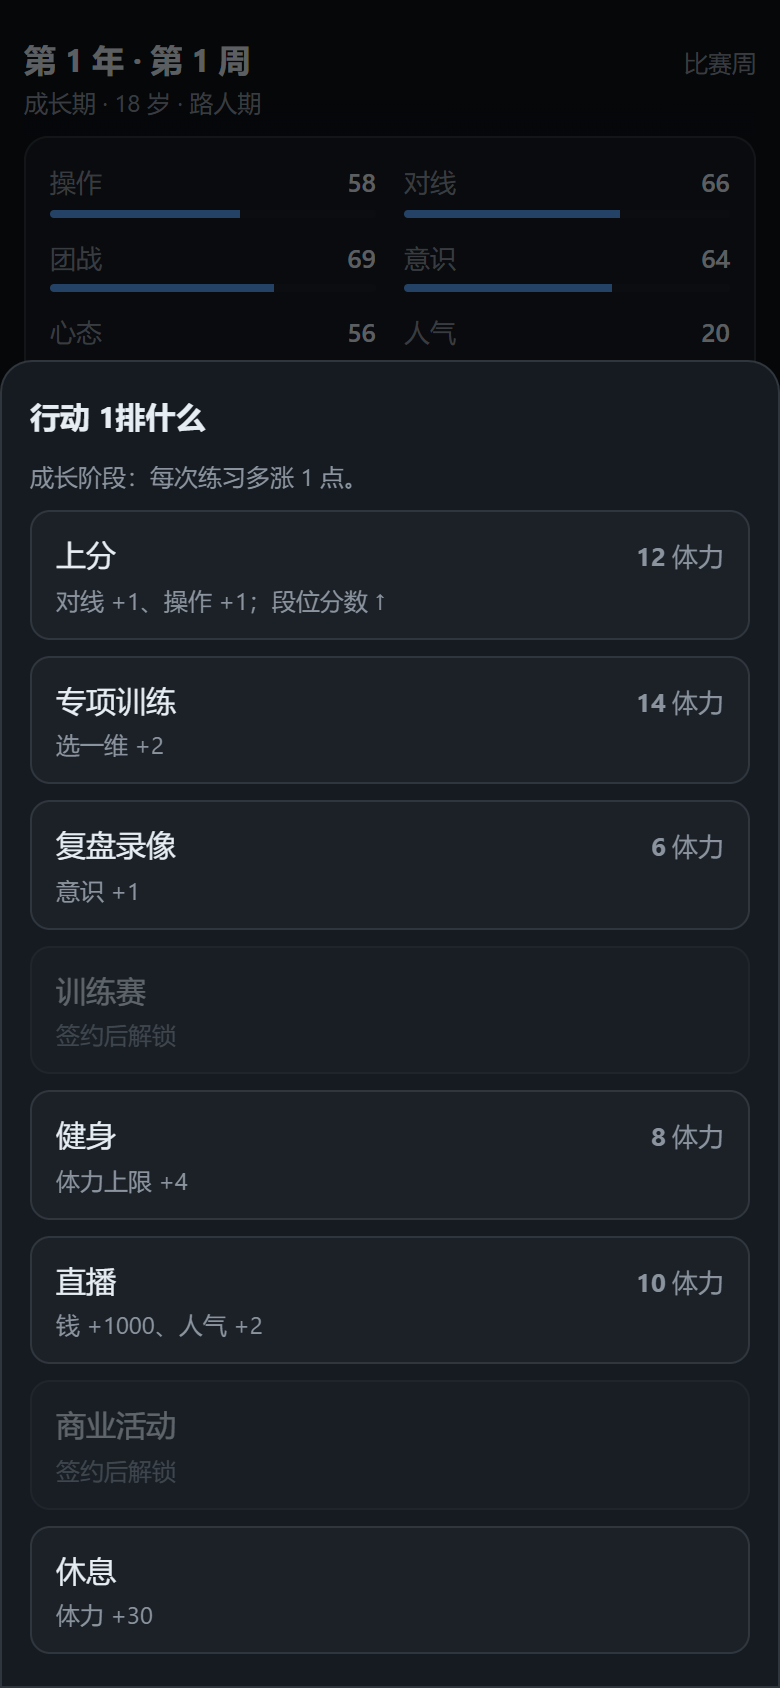
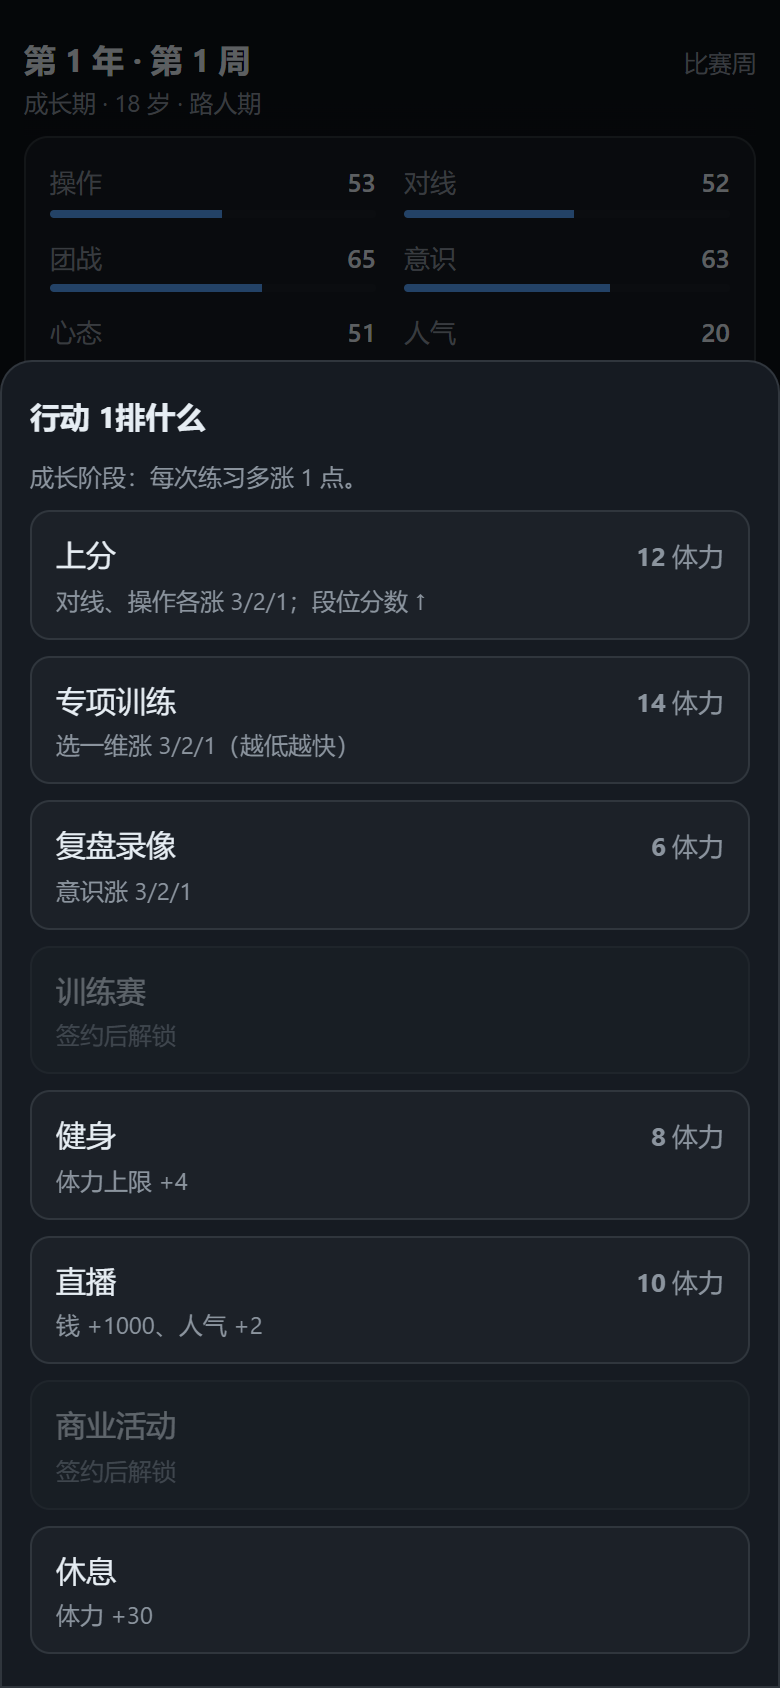
feat(balance): 训练改成按当前值分段收益 3/2/1（必成）

diff --git a/src/core/actions.ts b/src/core/actions.ts
@@ -1,6 +1,6 @@
 import { CONFIG } from '../config';
 import { ATTR_LABEL, type ActionId, type AttrKey, type GameState } from '../types';
-import { applyAttrDelta, gainPoints } from './growth';
+import { applyAttrDelta, gainPoints, trainGain } from './growth';
 import { createRng } from '../rng';
 import { FEEDBACK } from '../data/feedback';
 import { clamp } from './state';
@@ -15,10 +15,10 @@ export interface ActionInfo {
 }
 
 export const ACTION_INFO: Record<ActionId, ActionInfo> = {
-  rank: { label: '上分', hint: '对线 +1、操作 +1；段位分数 ↑', needsContract: false },
-  train: { label: '专项训练', hint: '选一维 +2', needsContract: false },
-  review: { label: '复盘录像', hint: '意识 +1', needsContract: false },
-  scrim: { label: '训练赛', hint: '团战 +1、意识 +1、信任 +2', needsContract: true },
+  rank: { label: '上分', hint: '对线、操作各涨 3/2/1；段位分数 ↑', needsContract: false },
+  train: { label: '专项训练', hint: '选一维涨 3/2/1（越低越快）', needsContract: false },
+  review: { label: '复盘录像', hint: '意识涨 3/2/1', needsContract: false },
+  scrim: { label: '训练赛', hint: '团战、意识各涨 3/2/1；信任 +2', needsContract: true },
   fitness: { label: '健身', hint: '体力上限 +4', needsContract: false },
   stream: { label: '直播', hint: '钱 +1000、人气 +2', needsContract: false },
   business: { label: '商业活动', hint: '钱 +2000、人气 +5', needsContract: true },
@@ -99,8 +99,8 @@ export function applyAction(
 
   switch (action) {
     case 'rank': {
-      gainPoints(state, 'laning', 1);
-      gainPoints(state, 'operation', 1);
+      gainPoints(state, 'laning', trainGain(state, 'laning'));
+      gainPoints(state, 'operation', trainGain(state, 'operation'));
       // 一周打包的排位：收益按当前档位递减，档位越高涨得越慢。
       const gained = weeklyGain(state.rankPoints);
       // 不封顶：封顶之后名次就成了死局，谁到 9999 都是并列。
@@ -114,17 +114,17 @@ export function applyAction(
     }
     case 'train': {
       const key = target ?? 'operation';
-      gainPoints(state, key, CONFIG.actions.train.gain);
+      gainPoints(state, key, trainGain(state, key));
       logs.push(say(state, 'train', `这一周只练${ATTR_LABEL[key]}。`));
       break;
     }
     case 'review':
-      gainPoints(state, 'awareness', CONFIG.actions.review.gain.awareness);
+      gainPoints(state, 'awareness', trainGain(state, 'awareness'));
       logs.push(say(state, 'review', '你逐帧看了自己的团战，越看越沉默。'));
       break;
     case 'scrim':
-      gainPoints(state, 'teamfight', CONFIG.actions.scrim.gain.teamfight);
-      gainPoints(state, 'awareness', CONFIG.actions.scrim.gain.awareness);
+      gainPoints(state, 'teamfight', trainGain(state, 'teamfight'));
+      gainPoints(state, 'awareness', trainGain(state, 'awareness'));
       state.coachTrust = clamp(state.coachTrust + CONFIG.actions.scrim.coachTrust, 0, 100);
       logs.push(say(state, 'scrim', '训练赛打完，教练在本子上记了两笔。'));
       break;

diff --git a/scripts/probe-bands.ts b/scripts/probe-bands.ts
@@ -1,0 +1,24 @@
+import { newGame } from '../src/core/state';
+import { trainGain, gainPoints } from '../src/core/growth';
+
+const s = newGame(7);
+for (const phase of [1, 3, 7]) {
+  s.year = phase;
+  s.attrs.operation = 55;
+  const rows: string[] = [];
+  for (const v of [55, 59, 60, 79, 80, 99]) {
+    s.attrs.operation = v;
+    rows.push(`${v}→+${trainGain(s, 'operation')}`);
+  }
+  console.log(`第 ${phase} 年（${phase === 1 ? '成长' : phase === 3 ? '巅峰' : '衰退'}）`, rows.join('  '));
+}
+
+// 从 55 练到 100 需要几格（巅峰期，无成长加成）
+s.year = 3;
+s.attrs.operation = 55;
+let slots = 0;
+while (s.attrs.operation < 100 && slots < 500) {
+  gainPoints(s, 'operation', trainGain(s, 'operation'));
+  slots += 1;
+}
+console.log('巅峰期 55→100 需要', slots, '格');

diff --git a/src/core/growth.ts b/src/core/growth.ts
@@ -9,7 +9,15 @@ export interface GainResult {
   capped: number;
 }
 
-/** 练一次涨几点：成长阶段额外 +1，练到 100 就停。 */
+/** 训练一次，这一维该涨几点：分段收益 + 成长阶段的额外 1 点。 */
+export function trainGain(state: GameState, key: AttrKey): number {
+  const value = state.attrs[key];
+  const band = CONFIG.attrs.trainBands.find((b) => value < b.under) ?? { gain: 1 };
+  const bonus = phaseOfYear(state.year) === 'growth' ? CONFIG.attrs.growthBonus : 0;
+  return band.gain + bonus;
+}
+
+/** 直接加整数点：练到 100 就停。 */
 export function gainPoints(state: GameState, key: AttrKey, amount: number): GainResult {
   const cap = CONFIG.attrs.cap;
   let points = 0;

diff --git a/src/config.ts b/src/config.ts
@@ -43,6 +43,15 @@ export const CONFIG = {
 
   attrs: {
     cap: 100,
+    /**
+     * 练一次涨几点：按「这一维现在多少」分段，越练越慢，全部必成。
+     * 60 以下 +3、60–79 +2、80 以上 +1。
+     */
+    trainBands: [
+      { under: 60, gain: 3 },
+      { under: 80, gain: 2 },
+      { under: 101, gain: 1 },
+    ],
     /** 成长阶段每次练习额外多涨的点数。 */
     growthBonus: 1,
     /** 衰退期年初：四项总和降为原来的 80%（损失平均摊到四项）。 */
